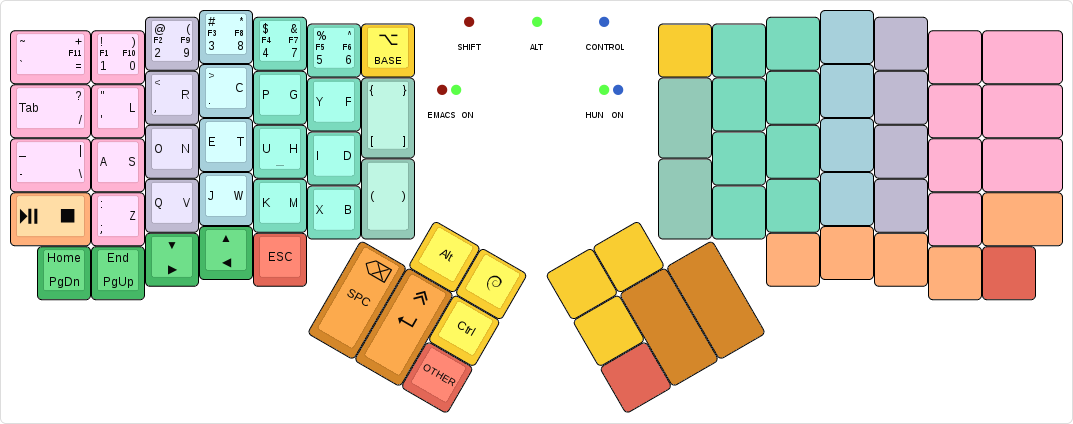
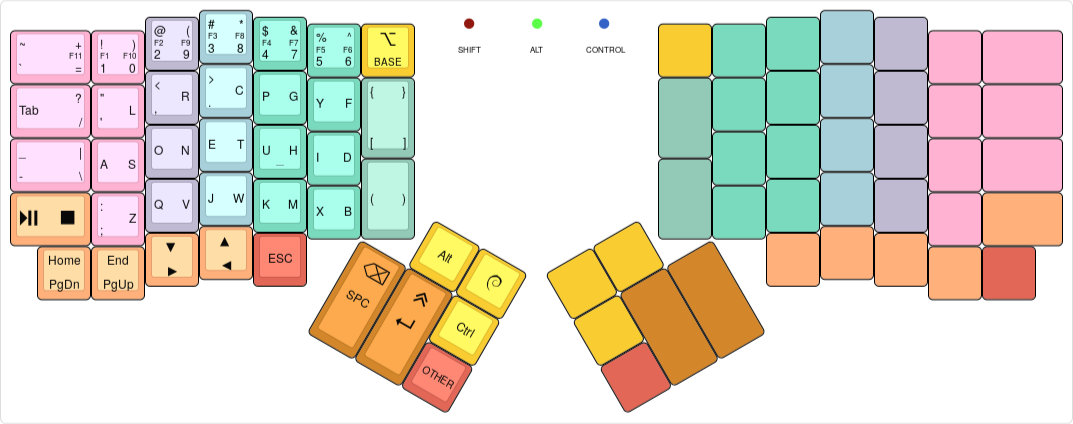
Update the images and the README
Bring all of these up to date.

diff --git a/readme.md b/readme.md
@@ -49,7 +49,7 @@ interesting parts are how certain keys behave:
   the one-shot modifiers are in-flight (as in, single-tapped, and not expired
   yet), it cancels all one-shot modifiers. It also cancels the **Hun** layer, if
   active. Otherwise it sends the usual keycode.
-* The **Emacs** and **Hun** layer keys are one-shot, the **1Hand**, **Arrow**
+* The **Media** and **Hun** layer keys are one-shot, the **1Hand**, **Arrow**
   and **STENO** keys are toggles.
 * Toggling the **Arrow** layer toggles between the cursor arrows and the paging
   keys on the bottom row.
@@ -62,9 +62,8 @@ interesting parts are how certain keys behave:
     - `LEAD y` types `\o/`.
     - `LEAD w m` maximises the currently focused window.
     - `LEAD e` makes the [experimental layer](#experimental-layer) the default.
-    - `LEAD v` prints the firmware version, the keyboard and the keymap, if
-      compiled with a QMK version that has these available.
-      
+    - `LEAD v` prints the firmware version, the keyboard and the keymap.
+
 ## Experimental layer
 
 [![Experimental layer](images/experimental-layer.png)](http://www.keyboard-layout-editor.com/#/gists/6ff50bf71248e05aab5b3fec4fae3d08)
